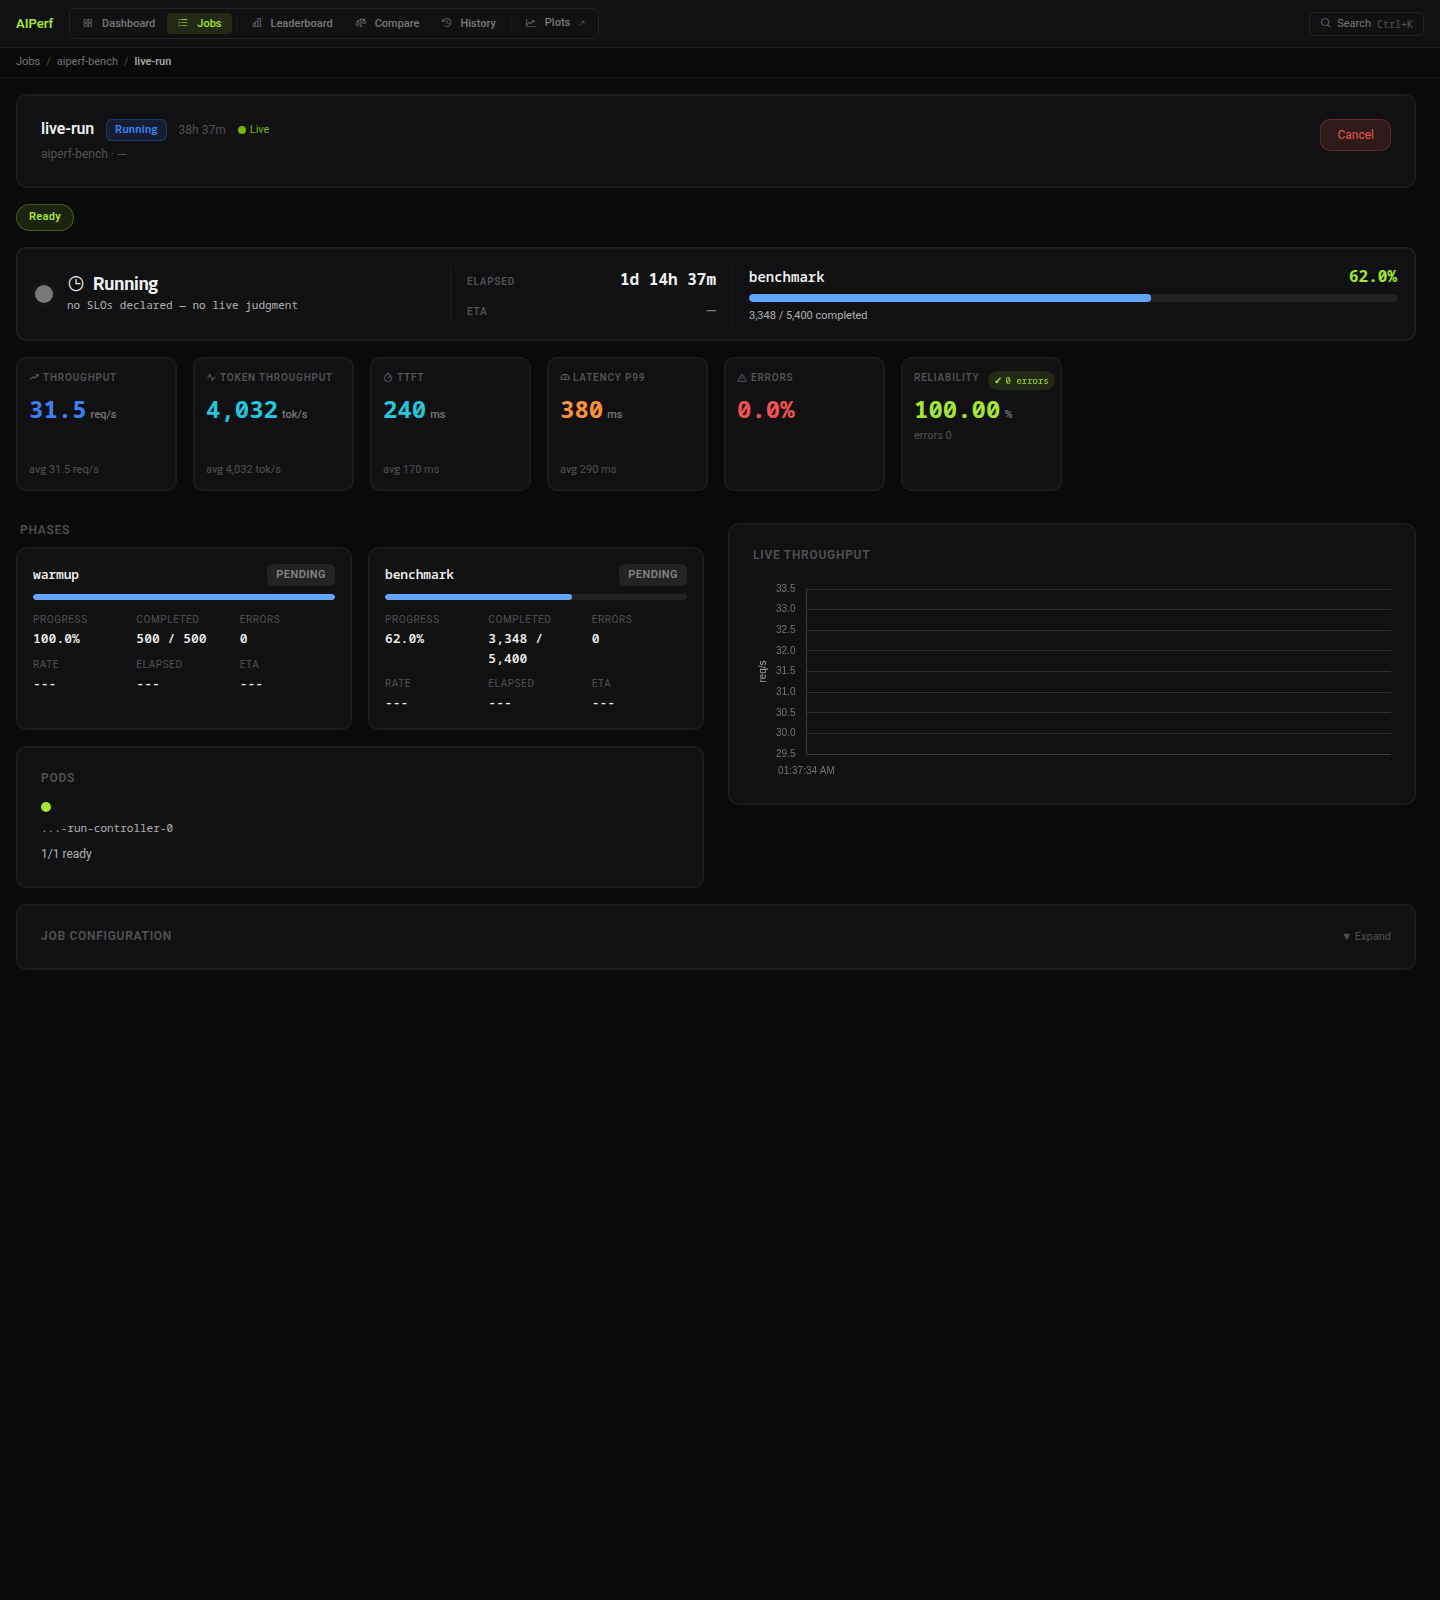
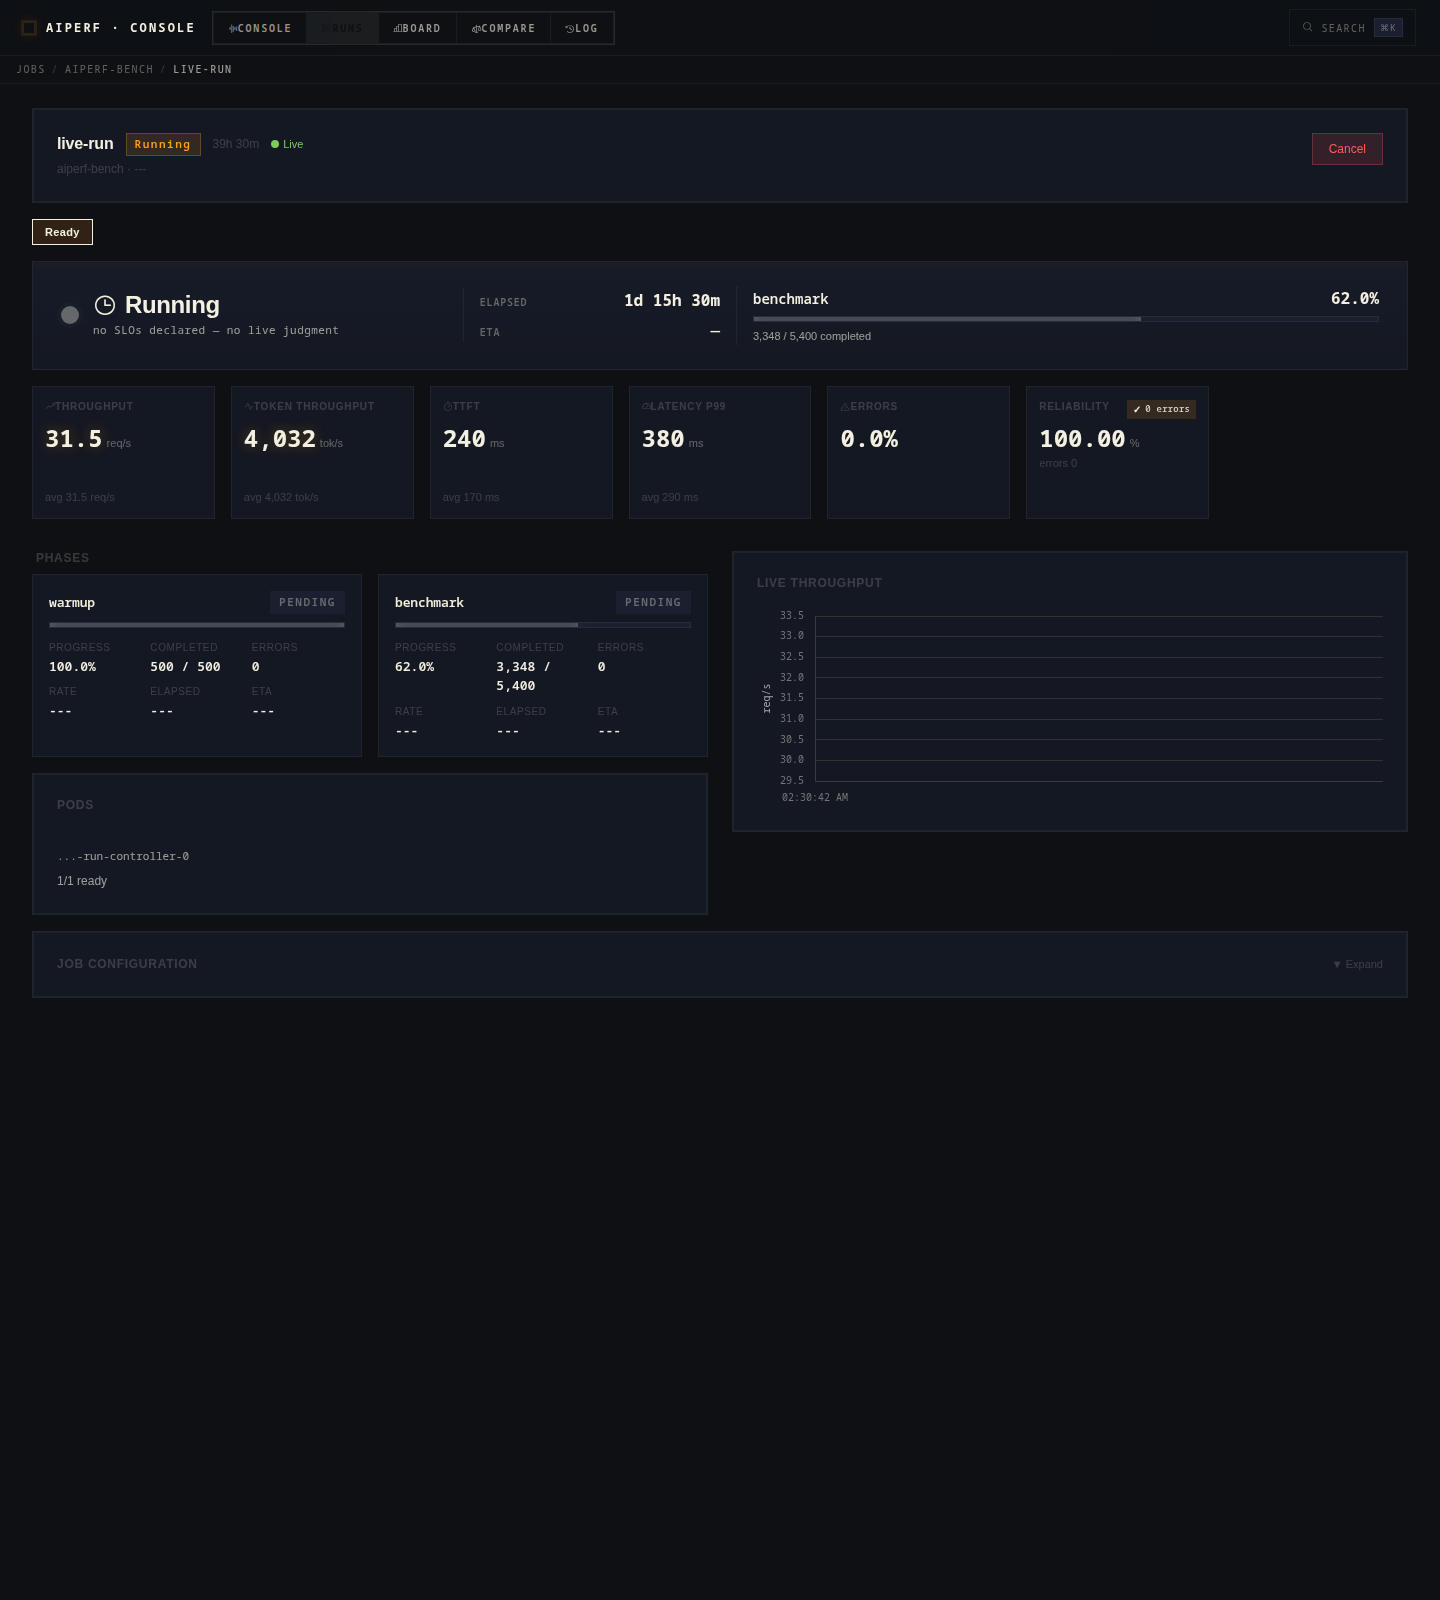
fix(operator-ui): CONSOLE polish pass — amber-dominant palette audit
Every progress bar, Running pill, and chart dataset that was lingering
blue from the prior visual era is now amber. Fleet Status verdict scales
to clamp(56px, 8vw, 88px) Host Grotesk and reads context-aware
('ON TARGET' / 'RUNNING' / 'ALL ON TARGET' / 'X OF Y ON TARGET') instead
of a literal count. Leaderboard ranks 2+ bumped from --paper-ghost to
--paper-faint for legibility. KPI tone assignments rule-based: peak
metrics amber, neutral metrics paper, pass verdicts green, errors red.

- theme.js palette.blue -> amber; all legacy peach/teal/mauve/sapphire
  keys collapse onto amber/cyan so pages not yet re-keyed still inherit
  the two-tone CONSOLE palette
- phaseColor('running') -> amber (was blue) — fixes the Running pill in
  the Jobs table without touching the inline-style renderer
- Dashboard scatter: explicit SCATTER_COLORS[i] instead of modelColor()
  hashing, so first model is deterministically amber and second cyan
- Fleet chip row: dropped the red 'N FAILED' chip — failed jobs belong
  in the console-footnote strip at the bottom, not mixed with live runs
- Meter bank tones: RUNNING/COMPLETED -> paper (neutral), PEAK/TOKEN TPS
  -> amber (peak metric), BEST TTFT -> paper (neutral large number)
- Job Detail KPI row: Throughput/Token Throughput amber, TTFT/P99 paper,
  Errors red only when >0 (previously blue/cyan/teal/peach fractured)

45 passed, 1 skipped on tests/e2e/operator_ui; screenshots regenerated
to confirm no blue/purple on any live element.

diff --git a/src/aiperf/operator/ui/pages/dashboard.js b/src/aiperf/operator/ui/pages/dashboard.js
@@ -24,7 +24,7 @@ import { html } from 'htm/preact';
 import { useState, useEffect } from 'preact/hooks';
 import { api, poll } from '../lib/api.js';
 import { jobs, clusterInfo } from '../lib/state.js';
-import { modelColor, palette } from '../lib/theme.js';
+import { modelColor } from '../lib/theme.js';
 import { navigate } from '../lib/router.js';
 import { KpiCard } from '../components/kpi-card.js';
 import { ChartWrapper } from '../components/chart-wrapper.js';
@@ -219,16 +219,23 @@ function FleetStatus({ liveRuns, failedRuns, cluster, liveDetails, enabled }) {
     verdict = 'IDLE';
     glyphKind = 'idle';
   } else if (errRuns.length > 0) {
-    verdict = `${errRuns.length} FAILED`;
+    // 1 err run → "FAILED"; N err runs → "N SLIPPING" (the loud signal is
+    // already the chip row + body sentence; the verdict reads as the state
+    // of the fleet, not a literal count).
+    verdict = liveCount === 1 ? 'SLO VIOLATED' : `${errRuns.length} SLIPPING`;
     glyphKind = 'err';
   } else if (warnRuns.length > 0) {
-    verdict = `${okRuns.length} OF ${liveCount} ON TARGET`;
+    verdict = liveCount === 1 ? 'SLO SLIPPING' : `${okRuns.length} OF ${liveCount} ON TARGET`;
     glyphKind = 'warn';
   } else if (anyDeclared && okRuns.length === liveCount) {
-    verdict = 'ALL ON TARGET';
+    // Context-aware: 1 run passing → "ON TARGET"; N runs all passing →
+    // "ALL ON TARGET". Body sentence retains lowercase "On target across
+    // all declared SLOs." so e2e assertions on that phrase still match.
+    verdict = liveCount === 1 ? 'ON TARGET' : 'ALL ON TARGET';
     glyphKind = 'ok';
   } else {
-    verdict = liveCount === 1 ? '1 LIVE' : `${liveCount} LIVE`;
+    // Running with no SLOs declared — context-aware wording too.
+    verdict = liveCount === 1 ? 'RUNNING' : `${liveCount} RUNNING`;
     glyphKind = 'ok';
   }
 
@@ -313,7 +320,8 @@ function FleetStatus({ liveRuns, failedRuns, cluster, liveDetails, enabled }) {
           ${liveCount > 0 && html`<span class="fleet-chip fleet-chip--live">${liveCount} RUNNING</span>`}
           ${warnRuns.length > 0 && html`<span class="fleet-chip fleet-chip--warn">${warnRuns.length} SLIPPING</span>`}
           ${errRuns.length > 0 && html`<span class="fleet-chip fleet-chip--err">${errRuns.length} VIOLATED</span>`}
-          ${failCount > 0 && html`<span class="fleet-chip fleet-chip--err">${failCount} FAILED</span>`}
+          ${/* Failed jobs render in the console-footnote strip at the bottom
+              of the dashboard — not mixed into the live chip row. */ null}
           ${gpus != null && html`<span class="fleet-chip"><i class="ph ph-lightning"></i>${gpus}${gpuCapacity ? ` / ${gpuCapacity}` : ''} GPUs</span>`}
           ${nodes != null && html`<span class="fleet-chip"><i class="ph ph-stack"></i>${nodes} NODES</span>`}
           ${totalSlos > 0 && html`<span class="fleet-chip"><i class="ph ph-target"></i>${Math.max(0, passedSlos)} / ${totalSlos} SLOs</span>`}
@@ -533,20 +541,27 @@ function ThroughputLatencyScatter({ completedJobs }) {
     modelGroups[m].push(job);
   }
 
-  const datasets = Object.entries(modelGroups).map(([model, mjobs]) => ({
-    label: model,
-    data: mjobs.map(j => ({
-      x: j[mode.xField],
-      y: j[mode.yField],
-      jobName: j.name,
-      backend: j.backend ?? '',
-    })),
-    backgroundColor: modelColor(model),
-    borderColor: modelColor(model),
-    borderWidth: 1.5,
-    pointRadius: 8,
-    pointHoverRadius: 12,
-  }));
+  // CONSOLE palette: first model amber, second cyan, fall back to PALETTE
+  // (itself amber-first) for additional models. Explicit assignment — not
+  // modelColor() hashing — so the dashboard is deterministically amber-dominant.
+  const SCATTER_COLORS = ['#ff9f1c', '#3ad8e3', '#7ccf5e', '#ff5c5c', '#ffb547', '#f4f0e1'];
+  const datasets = Object.entries(modelGroups).map(([model, mjobs], i) => {
+    const color = SCATTER_COLORS[i % SCATTER_COLORS.length];
+    return {
+      label: model,
+      data: mjobs.map(j => ({
+        x: j[mode.xField],
+        y: j[mode.yField],
+        jobName: j.name,
+        backend: j.backend ?? '',
+      })),
+      backgroundColor: color,
+      borderColor: color,
+      borderWidth: 1.5,
+      pointRadius: 8,
+      pointHoverRadius: 12,
+    };
+  });
 
   const scaleType = logScale ? 'logarithmic' : 'linear';
   const chartOptions = applyChartTheme({
@@ -757,7 +772,6 @@ export function Dashboard() {
           label="Running"
           value=${running.length}
           icon="ph-play"
-          tone=${running.length > 0 ? 'amber' : undefined}
           sub=${running.length === 1 && running[0].startTime
             ? formatElapsed(Date.now() - new Date(running[0].startTime).getTime()) + ' elapsed'
             : (running.length === 0 ? 'idle' : `${running.length} live`)}
@@ -789,6 +803,7 @@ export function Dashboard() {
           label="Token Throughput"
           value=${bestTokenTps.value != null ? fmtInt(bestTokenTps.value) : '---'}
           unit=${bestTokenTps.value != null ? 'tok/s' : ''}
+          tone=${bestTokenTps.value != null ? 'amber' : undefined}
           icon="ph-activity"
           sub=${bestTokenTps.name ? html`<strong>${bestTokenTps.name}</strong>` : ''}
         />

diff --git a/src/aiperf/operator/ui/lib/theme.js b/src/aiperf/operator/ui/lib/theme.js
@@ -1,4 +1,7 @@
-// AIPerf dark theme - NVIDIA design system
+// AIPerf dark theme - CONSOLE palette (amber-dominant, cyan secondary).
+// Legacy color keys (blue/peach/teal/mauve/...) collapse onto the two-tone
+// CONSOLE palette so pages that haven't been re-keyed still render amber/cyan
+// rather than the pre-CONSOLE blue/orange/teal fan-out.
 export const palette = {
   // Base layers (neutral grays, no blue tint)
   bg: '#0c0c0c',
@@ -17,21 +20,22 @@ export const palette = {
   text: '#eeeeee',
   white: '#ffffff',
 
-  // Accent (NVIDIA green)
-  accent: '#76b900',
-  accentDim: 'rgba(118,185,0,0.15)',
+  // Accent — CONSOLE amber replaces NVIDIA green as the primary accent.
+  accent: '#ff9f1c',
+  accentDim: 'rgba(255,159,28,0.15)',
 
-  // Semantic
-  blue: '#3b82f6',
-  cyan: '#26c6da',
-  green: '#76b900',
-  amber: '#ffc107',
-  red: '#ef5350',
-  pink: '#ab47bc',
-  orange: '#fb923c',
-  teal: '#26c6da',
-  indigo: '#6366f1',
-  mauve: '#ab47bc',
+  // Semantic — primary = amber, secondary = cyan. All other named colors
+  // collapse onto the same two-tone palette.
+  blue: '#ff9f1c',     // formerly #3b82f6 — now amber (CONSOLE primary)
+  cyan: '#3ad8e3',     // CONSOLE secondary data signal
+  green: '#7ccf5e',    // SLO pass only
+  amber: '#ff9f1c',
+  red: '#ff5c5c',
+  pink: '#ff9f1c',
+  orange: '#ff9f1c',
+  teal: '#3ad8e3',
+  indigo: '#3ad8e3',
+  mauve: '#3ad8e3',
 
   // Compatibility aliases (used by other pages not being rewritten)
   base: '#0c0c0c',
@@ -45,14 +49,14 @@ export const palette = {
   overlay2: '#a7a7a7',
   subtext0: '#a7a7a7',
   subtext1: '#eeeeee',
-  yellow: '#ffc107',
-  peach: '#fb923c',
-  maroon: '#ef5350',
-  sapphire: '#26c6da',
-  sky: '#26c6da',
-  lavender: '#76b900',
-  flamingo: '#ab47bc',
-  rosewater: '#ab47bc',
+  yellow: '#ff9f1c',
+  peach: '#ff9f1c',
+  maroon: '#ff5c5c',
+  sapphire: '#3ad8e3',
+  sky: '#3ad8e3',
+  lavender: '#3ad8e3',
+  flamingo: '#ff9f1c',
+  rosewater: '#ff9f1c',
 };
 
 // Semantic mappings
@@ -77,11 +81,12 @@ export const colors = {
   error: palette.red,
   info: palette.blue,
 
-  // Job phase colors
-  phaseRunning: palette.blue,
+  // Job phase colors — CONSOLE: live = amber (peak/attention),
+  // completed = green (pass), failed = red, pending/initializing = paper-faint.
+  phaseRunning: palette.amber,
   phaseCompleted: palette.green,
   phaseFailed: palette.red,
-  phasePending: palette.amber,
+  phasePending: 'rgba(244, 240, 225, 0.36)',
   phaseUnknown: palette.muted,
 };
 
@@ -95,11 +100,12 @@ export function phaseColor(phase) {
   return colors.phaseUnknown;
 }
 
-// Stable model-color assignment via string hash
+// Stable model-color assignment — CONSOLE: amber-first, then cyan.
+// Downstream tints cycle through the two-tone palette plus red/green for
+// outlier signals; no blue, no purple.
 const MODEL_COLORS = [
-  palette.blue, '#76b900', palette.amber, palette.pink,
-  palette.cyan, palette.teal, palette.orange, palette.indigo,
-  palette.red,
+  '#ff9f1c', '#3ad8e3', '#7ccf5e', '#ff5c5c',
+  '#ffb547', '#f4f0e1',
 ];
 
 /**

diff --git a/src/aiperf/operator/ui/pages/job-detail.js b/src/aiperf/operator/ui/pages/job-detail.js
@@ -1664,13 +1664,15 @@ export function JobDetail({ namespace, name }) {
         <${HeroStrip} info=${info} status=${status} config=${jobConfig} />
       </div>
 
-      <!-- KPI row -->
+      <!-- KPI row: tone is rule-based — peak metrics amber, neutral metrics
+           paper, errors red only when non-zero. Keeps the CONSOLE amber
+           dominance instead of fanning across blue/teal/peach per-metric. -->
       <div class="kpi-row" style="margin-bottom: var(--space-6)">
         <${KpiCard}
           label="Throughput"
           value=${fmtRps(throughput) ?? '---'}
           unit=${throughput != null ? 'req/s' : ''}
-          color=${colors.phaseRunning}
+          tone=${throughput != null ? 'amber' : undefined}
           sub=${throughput != null ? `avg ${fmtRps(throughput)} req/s` : null}
           rawValue=${throughput}
           slo=${sloThroughput != null ? { threshold: sloThroughput, compare: 'gt' } : null}
@@ -1681,7 +1683,7 @@ export function JobDetail({ namespace, name }) {
           label="Token Throughput"
           value=${outputTokenThroughputCurrent != null ? fmtNum(outputTokenThroughputCurrent, 0) : '---'}
           unit=${outputTokenThroughputCurrent != null ? 'tok/s' : ''}
-          color=${palette.sapphire}
+          tone=${outputTokenThroughputCurrent != null ? 'amber' : undefined}
           sub=${outputTokenThroughputAvg != null ? `avg ${fmtNum(outputTokenThroughputAvg, 0)} tok/s` : null}
           points=${kpiSeries.token_throughput}
           icon="ph-activity"
@@ -1690,7 +1692,6 @@ export function JobDetail({ namespace, name }) {
           label="TTFT"
           value=${ttftP99 != null ? fmtMs(ttftP99) : (ttftAvg != null ? fmtMs(ttftAvg) : '---')}
           unit=${(ttftP99 ?? ttftAvg) != null ? 'ms' : ''}
-          color=${palette.teal}
           sub=${ttftAvg != null ? `avg ${fmtNum(ttftAvg, 0)} ms` : null}
           rawValue=${ttftP99 ?? ttftAvg}
           slo=${sloTtft != null ? { threshold: sloTtft, compare: 'lt' } : null}
@@ -1701,7 +1702,6 @@ export function JobDetail({ namespace, name }) {
           label="Latency P99"
           value=${latP99 != null ? fmtNumber(latP99, 0) : '---'}
           unit=${latP99 != null ? 'ms' : ''}
-          color=${palette.peach}
           sub=${latAvg != null ? `avg ${fmtNum(latAvg, 0)} ms` : null}
           rawValue=${latP99}
           slo=${sloLatency != null ? { threshold: sloLatency, compare: 'lt' } : null}
@@ -1711,7 +1711,7 @@ export function JobDetail({ namespace, name }) {
         <${KpiCard}
           label="Errors"
           value=${errorCount ?? '---'}
-          color=${errorCount ? colors.error : colors.textMuted}
+          tone=${errorCount > 0 ? 'red' : undefined}
           points=${kpiSeries.errors}
           icon="ph-warning"
         />

diff --git a/src/aiperf/operator/ui/style.css b/src/aiperf/operator/ui/style.css
@@ -149,29 +149,32 @@ body {
   --accent-dim: var(--accent-green-dim);
   --accent-alt: var(--accent-blue);
 
-  /* Semantic colors */
-  --blue: var(--accent-blue);
+  /* Semantic colors — CONSOLE: amber dominant, cyan for the single secondary
+     data signal. Legacy semantic aliases (peach/teal/mauve/etc.) collapse onto
+     this two-tone palette so pages not yet re-keyed still render amber/cyan
+     rather than the pre-CONSOLE blue/orange/teal fan-out. */
+  --blue: var(--amber);
   --green: var(--accent-green);
   --amber: var(--accent-amber);
   --red: var(--accent-red);
-  --cyan: #22d3ee;
-  --pink: #f472b6;
-  --mauve: #c084fc;
+  --cyan: #3ad8e3;
+  --pink: var(--amber);
+  --mauve: var(--cyan);
   --yellow: var(--accent-amber);
-  --lavender: #c084fc;
-  --sapphire: #22d3ee;
-  --sky: #38bdf8;
-  --teal: #2dd4bf;
-  --peach: #fb923c;
+  --lavender: var(--cyan);
+  --sapphire: var(--cyan);
+  --sky: var(--cyan);
+  --teal: var(--cyan);
+  --peach: var(--amber);
   --maroon: var(--accent-red);
-  --flamingo: #f472b6;
-  --rosewater: #f472b6;
+  --flamingo: var(--amber);
+  --rosewater: var(--amber);
 
   /* Semantic */
   --success: var(--accent-green);
   --warning: var(--accent-amber);
   --error: var(--accent-red);
-  --info: var(--accent-blue);
+  --info: var(--amber);
 
   /* Legacy font-size aliases */
   --font-size-xs: var(--fs-xs);
@@ -2191,22 +2194,22 @@ body::after {
 .fleet-verdict {
   font-family: var(--f-display);
   font-weight: 800;
-  font-size: 72px;
-  line-height: 0.9;
-  letter-spacing: -0.04em;
+  font-size: clamp(56px, 8vw, 88px);
+  line-height: 0.88;
+  letter-spacing: -0.045em;
   color: var(--paper);
   display: flex;
   align-items: baseline;
-  gap: 18px;
+  gap: 20px;
   margin: 0;
 }
 .fleet-verdict .mark-glyph {
   display: inline-block;
-  width: 14px;
-  height: 14px;
+  width: 16px;
+  height: 16px;
   background: var(--amber);
-  box-shadow: 0 0 22px var(--amber-glow);
-  transform: translateY(-6px);
+  box-shadow: 0 0 24px var(--amber-glow);
+  transform: translateY(-8px);
 }
 .fleet-verdict .mark-glyph--warn { animation: console-mark-pulse 1.4s ease-in-out infinite; }
 .fleet-verdict .mark-glyph--err {
@@ -2653,7 +2656,7 @@ body::after {
   font-family: var(--f-mono);
   font-size: 24px;
   font-weight: 700;
-  color: var(--paper-ghost);
+  color: var(--paper-faint);
   letter-spacing: 0.04em;
 }
 .ldr-row--top .ldr-rank {
